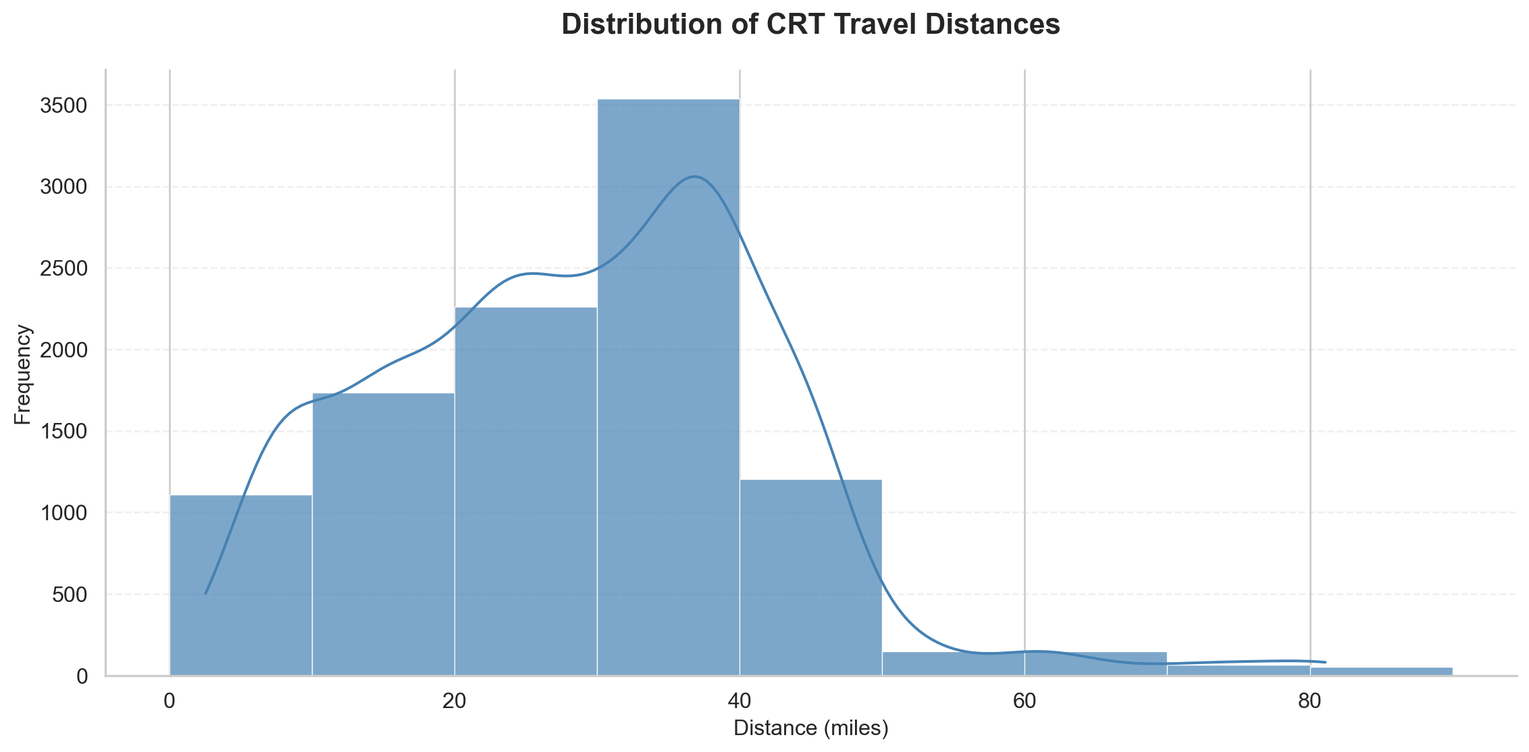
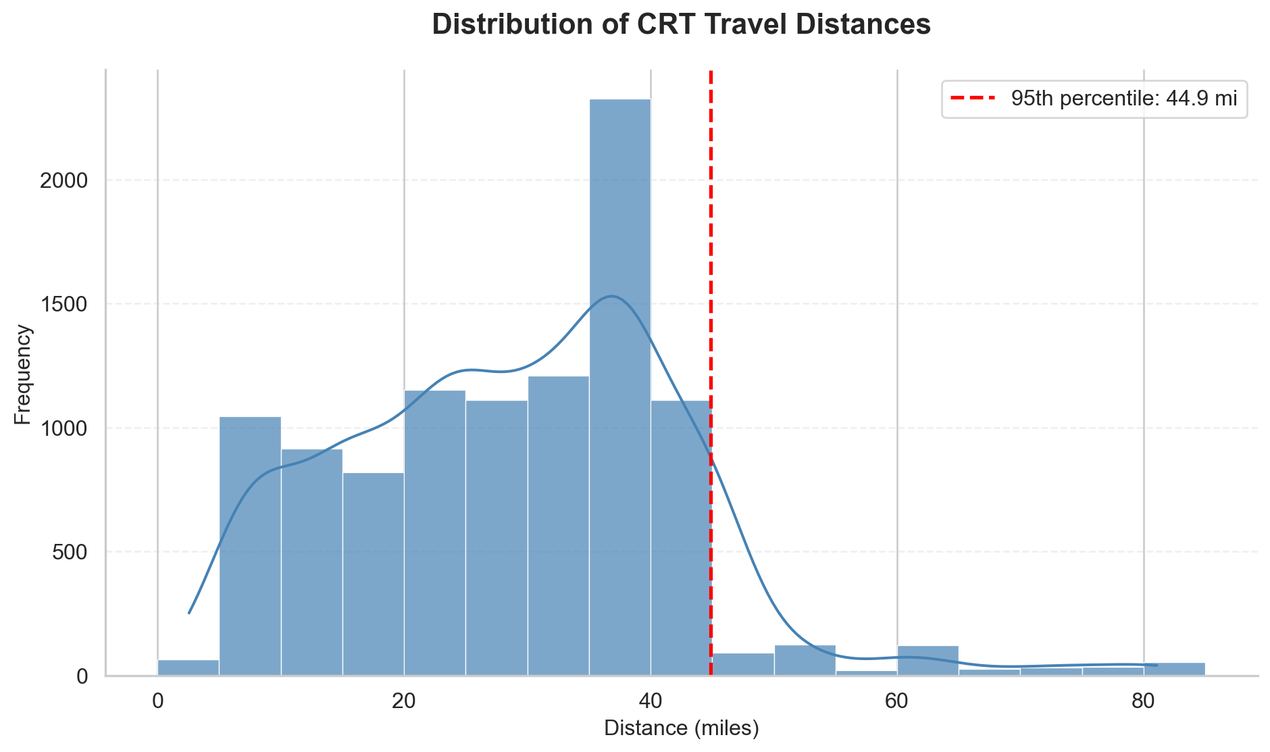
update the trip distance histogram plot

diff --git a/docs/1-crt-trip-distances.html b/docs/1-crt-trip-distances.html
@@ -113,10 +113,7 @@ pre > code.sourceCode > span > a:first-child::before { text-decoration: underlin
 }</script>
 <script src="https://cdn.jsdelivr.net/npm/requirejs@2.3.6/require.min.js" integrity="sha384-c9c+LnTbwQ3aujuU7ULEPVvgLs+Fn6fJUvIGTsuu1ZcCf11fiEubah0ttpca4ntM sha384-6V1/AdqZRWk1KAlWbKBlGhN7VG4iE/yAZcO6NZPMF8od0vukrvr0tg4qY6NSrItx" crossorigin="anonymous"></script>
 
-
-
 <script type="application/javascript">define('jquery', [],function() {return window.jQuery;})</script>
-
 
 
 </head>
@@ -407,7 +404,7 @@ pre > code.sourceCode > span > a:first-child::before { text-decoration: underlin
 </section>
 <section id="import-libraries" class="level2" data-number="1.2">
 <h2 data-number="1.2" class="anchored" data-anchor-id="import-libraries"><span class="header-section-number">1.2</span> Import Libraries</h2>
-<div id="3921f854" class="cell" data-execution_count="1">
+<div id="39dad0d2" class="cell" data-execution_count="1">
 <details class="code-fold">
 <summary>Show the code</summary>
 <div class="code-copy-outer-scaffold"><div class="sourceCode cell-code" id="cb2"><pre class="sourceCode python code-with-copy"><code class="sourceCode python"><span id="cb2-1"><a href="#cb2-1" aria-hidden="true" tabindex="-1"></a><span class="im">import</span> pandas <span class="im">as</span> pd</span>
@@ -431,7 +428,7 @@ pre > code.sourceCode > span > a:first-child::before { text-decoration: underlin
 </section>
 <section id="environment-variables" class="level2" data-number="1.3">
 <h2 data-number="1.3" class="anchored" data-anchor-id="environment-variables"><span class="header-section-number">1.3</span> Environment Variables</h2>
-<div id="d1bdcb39" class="cell" data-execution_count="2">
+<div id="f711789e" class="cell" data-execution_count="2">
 <details class="code-fold">
 <summary>Show the code</summary>
 <div class="code-copy-outer-scaffold"><div class="sourceCode cell-code" id="cb3"><pre class="sourceCode python code-with-copy"><code class="sourceCode python"><span id="cb3-1"><a href="#cb3-1" aria-hidden="true" tabindex="-1"></a>PROJECT_CRS <span class="op">=</span> <span class="st">"EPSG:3566"</span>  <span class="co"># NAD83 / Utah North (ftUS)</span></span></code></pre></div><button title="Copy to Clipboard" class="code-copy-button"><i class="bi"></i></button></div>
@@ -440,7 +437,7 @@ pre > code.sourceCode > span > a:first-child::before { text-decoration: underlin
 </section>
 <section id="helper-functions" class="level2" data-number="1.4">
 <h2 data-number="1.4" class="anchored" data-anchor-id="helper-functions"><span class="header-section-number">1.4</span> Helper Functions</h2>
-<div id="6d5a98b4" class="cell" data-execution_count="3">
+<div id="4aaf6112" class="cell" data-execution_count="3">
 <details class="code-fold">
 <summary>Show the code</summary>
 <div class="code-copy-outer-scaffold"><div class="sourceCode cell-code" id="cb4"><pre class="sourceCode python code-with-copy"><code class="sourceCode python"><span id="cb4-1"><a href="#cb4-1" aria-hidden="true" tabindex="-1"></a><span class="kw">def</span> fetch_github(</span>
@@ -493,8 +490,8 @@ pre > code.sourceCode > span > a:first-child::before { text-decoration: underlin
 <h1 data-number="2"><span class="header-section-number">2</span> Load Data</h1>
 <section id="processed-on-board-survey-data" class="level2" data-number="2.1">
 <h2 data-number="2.1" class="anchored" data-anchor-id="processed-on-board-survey-data"><span class="header-section-number">2.1</span> Processed On-Board Survey Data</h2>
-<p>This dataset is the output from the <a href="2-access-distance-and-time.qmd">“previous step”</a>, which contains all the calculated access and egress distances and times.</p>
-<div id="049a64fb" class="cell" data-execution_count="4">
+<p>This dataset is the output from the <a href="https://github.com/WFRCAnalytics/DATA-OBS-Prep-For-TDM">“previous step”</a>, which contains all the calculated access and egress distances and times.</p>
+<div id="e322201f" class="cell" data-execution_count="4">
 <details class="code-fold">
 <summary>Show the code</summary>
 <div class="code-copy-outer-scaffold"><div class="sourceCode cell-code" id="cb5"><pre class="sourceCode python code-with-copy"><code class="sourceCode python"><span id="cb5-1"><a href="#cb5-1" aria-hidden="true" tabindex="-1"></a><span class="co"># Read Linked UTA On-Board Survey Data directly from GitHub repo</span></span>
@@ -507,12 +504,12 @@ pre > code.sourceCode > span > a:first-child::before { text-decoration: underlin
 <span id="cb5-8"><a href="#cb5-8" aria-hidden="true" tabindex="-1"></a>df_obs_linked</span></code></pre></div><button title="Copy to Clipboard" class="code-copy-button"><i class="bi"></i></button></div>
 </details>
 <div class="cell-output cell-output-stderr">
-<pre><code>C:\Users\Pukar.Bhandari\AppData\Local\Temp\ipykernel_21860\3078765074.py:7: DtypeWarning:
+<pre><code>C:\Users\Pukar.Bhandari\AppData\Local\Temp\ipykernel_15724\3078765074.py:7: DtypeWarning:
 
 Columns (8,24,32,37,54,132,137,174) have mixed types. Specify dtype option on import or set low_memory=False.
 </code></pre>
 </div>
-<div class="cell-output cell-output-display" data-execution_count="10">
+<div class="cell-output cell-output-display" data-execution_count="14">
 <div>
 
 
@@ -834,7 +831,7 @@ Tip
 <p>Skim matrices were copied from <code>\\ModelAce\ModelAce-E\1 - TDM\1 - Official Release (full run)\v9x\v9.1\v9.1.1\WF-TDM-v9.1.1 - revised-se\Scenarios\OY_2023\4_ModeChoice\1a_Skims</code></p>
 </div>
 </div>
-<div id="fbdef5cb" class="cell" data-execution_count="5">
+<div id="766f50cc" class="cell" data-execution_count="5">
 <details class="code-fold">
 <summary>Show the code</summary>
 <div class="code-copy-outer-scaffold"><div class="sourceCode cell-code" id="cb7"><pre class="sourceCode python code-with-copy"><code class="sourceCode python"><span id="cb7-1"><a href="#cb7-1" aria-hidden="true" tabindex="-1"></a><span class="co"># Define output files to check</span></span>
@@ -867,7 +864,7 @@ Tip
 </section>
 <section id="read-matrices" class="level2" data-number="2.3">
 <h2 data-number="2.3" class="anchored" data-anchor-id="read-matrices"><span class="header-section-number">2.3</span> Read Matrices</h2>
-<div id="55b244dc" class="cell" data-execution_count="6">
+<div id="15053c36" class="cell" data-execution_count="6">
 <details class="code-fold">
 <summary>Show the code</summary>
 <div class="code-copy-outer-scaffold"><div class="sourceCode cell-code" id="cb9"><pre class="sourceCode python code-with-copy"><code class="sourceCode python"><span id="cb9-1"><a href="#cb9-1" aria-hidden="true" tabindex="-1"></a><span class="co"># Read Matrices as DataFrames</span></span>
@@ -883,7 +880,7 @@ Tip
 <h1 data-number="3"><span class="header-section-number">3</span> Process Data</h1>
 <section id="assign-which-matrix-to-process-for-each-row" class="level2" data-number="3.1">
 <h2 data-number="3.1" class="anchored" data-anchor-id="assign-which-matrix-to-process-for-each-row"><span class="header-section-number">3.1</span> Assign which matrix to process for each row</h2>
-<div id="dbe2f5dd" class="cell" data-execution_count="7">
+<div id="759f1e40" class="cell" data-execution_count="7">
 <details class="code-fold">
 <summary>Show the code</summary>
 <div class="code-copy-outer-scaffold"><div class="sourceCode cell-code" id="cb10"><pre class="sourceCode python code-with-copy"><code class="sourceCode python"><span id="cb10-1"><a href="#cb10-1" aria-hidden="true" tabindex="-1"></a><span class="co"># Create a new column called "skim_crt" - only assign when CRT is used</span></span>
@@ -912,7 +909,7 @@ Tip
 <span id="cb10-24"><a href="#cb10-24" aria-hidden="true" tabindex="-1"></a></span>
 <span id="cb10-25"><a href="#cb10-25" aria-hidden="true" tabindex="-1"></a>df_obs_linked[<span class="st">'skim_crt'</span>].value_counts().reset_index()</span></code></pre></div><button title="Copy to Clipboard" class="code-copy-button"><i class="bi"></i></button></div>
 </details>
-<div class="cell-output cell-output-display" data-execution_count="13">
+<div class="cell-output cell-output-display" data-execution_count="17">
 <div>
 
 
@@ -954,7 +951,7 @@ Tip
 </section>
 <section id="calculate-crt-distances" class="level2" data-number="3.2">
 <h2 data-number="3.2" class="anchored" data-anchor-id="calculate-crt-distances"><span class="header-section-number">3.2</span> Calculate CRT Distances</h2>
-<div id="a06ad628" class="cell" data-execution_count="8">
+<div id="c03c9ddf" class="cell" data-execution_count="8">
 <details class="code-fold">
 <summary>Show the code</summary>
 <div class="code-copy-outer-scaffold"><div class="sourceCode cell-code" id="cb11"><pre class="sourceCode python code-with-copy"><code class="sourceCode python"><span id="cb11-1"><a href="#cb11-1" aria-hidden="true" tabindex="-1"></a><span class="co"># Calculate CRT Distances - vectorized approach</span></span>
@@ -986,7 +983,7 @@ Tip
 <span id="cb11-27"><a href="#cb11-27" aria-hidden="true" tabindex="-1"></a></span>
 <span id="cb11-28"><a href="#cb11-28" aria-hidden="true" tabindex="-1"></a>df_obs_linked[[<span class="st">'dist_CRT'</span>]]</span></code></pre></div><button title="Copy to Clipboard" class="code-copy-button"><i class="bi"></i></button></div>
 </details>
-<div class="cell-output cell-output-display" data-execution_count="14">
+<div class="cell-output cell-output-display" data-execution_count="18">
 <div>
 
 
@@ -1049,12 +1046,12 @@ Tip
 </div>
 </div>
 </div>
-<div id="b51bfbeb" class="cell" data-execution_count="9">
+<div id="4b68cc2b" class="cell" data-execution_count="9">
 <details class="code-fold">
 <summary>Show the code</summary>
 <div class="code-copy-outer-scaffold"><div class="sourceCode cell-code" id="cb12"><pre class="sourceCode python code-with-copy"><code class="sourceCode python"><span id="cb12-1"><a href="#cb12-1" aria-hidden="true" tabindex="-1"></a>df_obs_linked[<span class="st">'dist_CRT'</span>].replace(<span class="dv">0</span>, np.nan).dropna().sort_values()</span></code></pre></div><button title="Copy to Clipboard" class="code-copy-button"><i class="bi"></i></button></div>
 </details>
-<div class="cell-output cell-output-display" data-execution_count="15">
+<div class="cell-output cell-output-display" data-execution_count="19">
 <pre><code>11934     2.55
 7651      4.32
 2326      4.32
@@ -1069,47 +1066,58 @@ Tip
 Name: dist_CRT, Length: 1911, dtype: float64</code></pre>
 </div>
 </div>
-<div id="5b7a8688" class="cell" data-execution_count="10">
+<div id="c23d2d4c" class="cell" data-execution_count="10">
 <details class="code-fold">
 <summary>Show the code</summary>
 <div class="code-copy-outer-scaffold"><div class="sourceCode cell-code" id="cb14"><pre class="sourceCode python code-with-copy"><code class="sourceCode python"><span id="cb14-1"><a href="#cb14-1" aria-hidden="true" tabindex="-1"></a><span class="co"># Set seaborn style</span></span>
 <span id="cb14-2"><a href="#cb14-2" aria-hidden="true" tabindex="-1"></a>sns.set_style(<span class="st">"whitegrid"</span>)</span>
 <span id="cb14-3"><a href="#cb14-3" aria-hidden="true" tabindex="-1"></a>sns.set_context(<span class="st">"notebook"</span>, font_scale<span class="op">=</span><span class="fl">1.1</span>)</span>
 <span id="cb14-4"><a href="#cb14-4" aria-hidden="true" tabindex="-1"></a></span>
-<span id="cb14-5"><a href="#cb14-5" aria-hidden="true" tabindex="-1"></a>plt.figure(figsize<span class="op">=</span>(<span class="dv">12</span>, <span class="dv">6</span>))</span>
+<span id="cb14-5"><a href="#cb14-5" aria-hidden="true" tabindex="-1"></a>plt.figure(figsize<span class="op">=</span>(<span class="dv">10</span>, <span class="dv">6</span>))</span>
 <span id="cb14-6"><a href="#cb14-6" aria-hidden="true" tabindex="-1"></a></span>
-<span id="cb14-7"><a href="#cb14-7" aria-hidden="true" tabindex="-1"></a><span class="co"># Create histogram with KDE</span></span>
-<span id="cb14-8"><a href="#cb14-8" aria-hidden="true" tabindex="-1"></a>ax <span class="op">=</span> sns.histplot(</span>
-<span id="cb14-9"><a href="#cb14-9" aria-hidden="true" tabindex="-1"></a>    data<span class="op">=</span>df_obs_linked[</span>
-<span id="cb14-10"><a href="#cb14-10" aria-hidden="true" tabindex="-1"></a>        (df_obs_linked[<span class="st">'dist_CRT'</span>].notna()) <span class="op">&amp;</span> <span class="co"># filter out NaNs and</span></span>
-<span id="cb14-11"><a href="#cb14-11" aria-hidden="true" tabindex="-1"></a>        (df_obs_linked[<span class="st">'dist_CRT'</span>] <span class="op">&gt;</span> <span class="dv">0</span>) <span class="co"># only valid distances</span></span>
-<span id="cb14-12"><a href="#cb14-12" aria-hidden="true" tabindex="-1"></a>    ],</span>
-<span id="cb14-13"><a href="#cb14-13" aria-hidden="true" tabindex="-1"></a>    x<span class="op">=</span><span class="st">'dist_CRT'</span>,</span>
-<span id="cb14-14"><a href="#cb14-14" aria-hidden="true" tabindex="-1"></a>    weights<span class="op">=</span><span class="st">"trip_weight"</span>,</span>
-<span id="cb14-15"><a href="#cb14-15" aria-hidden="true" tabindex="-1"></a>    bins<span class="op">=</span><span class="bu">range</span>(<span class="dv">0</span>, <span class="bu">int</span>(df_obs_linked[<span class="st">'dist_CRT'</span>].<span class="bu">max</span>()) <span class="op">+</span> <span class="dv">10</span>, <span class="dv">10</span>),</span>
-<span id="cb14-16"><a href="#cb14-16" aria-hidden="true" tabindex="-1"></a>    kde<span class="op">=</span><span class="va">True</span>,</span>
-<span id="cb14-17"><a href="#cb14-17" aria-hidden="true" tabindex="-1"></a>    color<span class="op">=</span><span class="st">'steelblue'</span>,</span>
-<span id="cb14-18"><a href="#cb14-18" aria-hidden="true" tabindex="-1"></a>    edgecolor<span class="op">=</span><span class="st">'white'</span>,</span>
-<span id="cb14-19"><a href="#cb14-19" aria-hidden="true" tabindex="-1"></a>    linewidth<span class="op">=</span><span class="fl">0.5</span>,</span>
-<span id="cb14-20"><a href="#cb14-20" aria-hidden="true" tabindex="-1"></a>    alpha<span class="op">=</span><span class="fl">0.7</span></span>
-<span id="cb14-21"><a href="#cb14-21" aria-hidden="true" tabindex="-1"></a>)</span>
-<span id="cb14-22"><a href="#cb14-22" aria-hidden="true" tabindex="-1"></a></span>
-<span id="cb14-23"><a href="#cb14-23" aria-hidden="true" tabindex="-1"></a><span class="co"># Add grid for better readability</span></span>
-<span id="cb14-24"><a href="#cb14-24" aria-hidden="true" tabindex="-1"></a>plt.grid(axis<span class="op">=</span><span class="st">'y'</span>, alpha<span class="op">=</span><span class="fl">0.3</span>, linestyle<span class="op">=</span><span class="st">'--'</span>)</span>
+<span id="cb14-7"><a href="#cb14-7" aria-hidden="true" tabindex="-1"></a><span class="co"># Filter relevant data</span></span>
+<span id="cb14-8"><a href="#cb14-8" aria-hidden="true" tabindex="-1"></a>df_valid <span class="op">=</span> df_obs_linked[</span>
+<span id="cb14-9"><a href="#cb14-9" aria-hidden="true" tabindex="-1"></a>    (df_obs_linked[<span class="st">'dist_CRT'</span>].notna()) <span class="op">&amp;</span> <span class="co"># filter out NaNs and</span></span>
+<span id="cb14-10"><a href="#cb14-10" aria-hidden="true" tabindex="-1"></a>    (df_obs_linked[<span class="st">'dist_CRT'</span>] <span class="op">&gt;</span> <span class="dv">0</span>) <span class="co"># only non-zero distances</span></span>
+<span id="cb14-11"><a href="#cb14-11" aria-hidden="true" tabindex="-1"></a>]</span>
+<span id="cb14-12"><a href="#cb14-12" aria-hidden="true" tabindex="-1"></a></span>
+<span id="cb14-13"><a href="#cb14-13" aria-hidden="true" tabindex="-1"></a><span class="co"># Create histogram with KDE</span></span>
+<span id="cb14-14"><a href="#cb14-14" aria-hidden="true" tabindex="-1"></a>ax <span class="op">=</span> sns.histplot(</span>
+<span id="cb14-15"><a href="#cb14-15" aria-hidden="true" tabindex="-1"></a>    data<span class="op">=</span>df_valid,</span>
+<span id="cb14-16"><a href="#cb14-16" aria-hidden="true" tabindex="-1"></a>    x<span class="op">=</span><span class="st">'dist_CRT'</span>,</span>
+<span id="cb14-17"><a href="#cb14-17" aria-hidden="true" tabindex="-1"></a>    weights<span class="op">=</span><span class="st">"trip_weight"</span>,</span>
+<span id="cb14-18"><a href="#cb14-18" aria-hidden="true" tabindex="-1"></a>    bins<span class="op">=</span>(<span class="kw">lambda</span> x: <span class="bu">range</span>(<span class="dv">0</span>, <span class="bu">int</span>(df_valid[<span class="st">'dist_CRT'</span>].<span class="bu">max</span>()) <span class="op">+</span> x, x))(<span class="dv">5</span>),</span>
+<span id="cb14-19"><a href="#cb14-19" aria-hidden="true" tabindex="-1"></a>    kde<span class="op">=</span><span class="va">True</span>,</span>
+<span id="cb14-20"><a href="#cb14-20" aria-hidden="true" tabindex="-1"></a>    color<span class="op">=</span><span class="st">'steelblue'</span>,</span>
+<span id="cb14-21"><a href="#cb14-21" aria-hidden="true" tabindex="-1"></a>    edgecolor<span class="op">=</span><span class="st">'white'</span>,</span>
+<span id="cb14-22"><a href="#cb14-22" aria-hidden="true" tabindex="-1"></a>    linewidth<span class="op">=</span><span class="fl">0.5</span>,</span>
+<span id="cb14-23"><a href="#cb14-23" aria-hidden="true" tabindex="-1"></a>    alpha<span class="op">=</span><span class="fl">0.7</span></span>
+<span id="cb14-24"><a href="#cb14-24" aria-hidden="true" tabindex="-1"></a>)</span>
 <span id="cb14-25"><a href="#cb14-25" aria-hidden="true" tabindex="-1"></a></span>
-<span id="cb14-26"><a href="#cb14-26" aria-hidden="true" tabindex="-1"></a><span class="co"># Customize</span></span>
-<span id="cb14-27"><a href="#cb14-27" aria-hidden="true" tabindex="-1"></a>plt.title(<span class="st">'Distribution of CRT Travel Distances'</span>, fontsize<span class="op">=</span><span class="dv">16</span>, fontweight<span class="op">=</span><span class="st">'bold'</span>, pad<span class="op">=</span><span class="dv">20</span>)</span>
-<span id="cb14-28"><a href="#cb14-28" aria-hidden="true" tabindex="-1"></a>plt.xlabel(<span class="st">'Distance (miles)'</span>, fontsize<span class="op">=</span><span class="dv">12</span>)</span>
-<span id="cb14-29"><a href="#cb14-29" aria-hidden="true" tabindex="-1"></a>plt.ylabel(<span class="st">'Frequency'</span>, fontsize<span class="op">=</span><span class="dv">12</span>)</span>
+<span id="cb14-26"><a href="#cb14-26" aria-hidden="true" tabindex="-1"></a><span class="co"># Add 95th percentile line using sorted cumulative weights</span></span>
+<span id="cb14-27"><a href="#cb14-27" aria-hidden="true" tabindex="-1"></a>df_sorted <span class="op">=</span> df_valid.sort_values(<span class="st">'dist_CRT'</span>)</span>
+<span id="cb14-28"><a href="#cb14-28" aria-hidden="true" tabindex="-1"></a>cumsum <span class="op">=</span> df_sorted[<span class="st">'trip_weight'</span>].cumsum()</span>
+<span id="cb14-29"><a href="#cb14-29" aria-hidden="true" tabindex="-1"></a>pct95 <span class="op">=</span> df_sorted.loc[cumsum <span class="op">&gt;=</span> cumsum.iloc[<span class="op">-</span><span class="dv">1</span>] <span class="op">*</span> <span class="fl">0.95</span>, <span class="st">'dist_CRT'</span>].iloc[<span class="dv">0</span>]</span>
 <span id="cb14-30"><a href="#cb14-30" aria-hidden="true" tabindex="-1"></a></span>
-<span id="cb14-31"><a href="#cb14-31" aria-hidden="true" tabindex="-1"></a>sns.despine()</span>
-<span id="cb14-32"><a href="#cb14-32" aria-hidden="true" tabindex="-1"></a>plt.tight_layout()</span>
-<span id="cb14-33"><a href="#cb14-33" aria-hidden="true" tabindex="-1"></a>plt.show()</span></code></pre></div><button title="Copy to Clipboard" class="code-copy-button"><i class="bi"></i></button></div>
+<span id="cb14-31"><a href="#cb14-31" aria-hidden="true" tabindex="-1"></a>plt.axvline(pct95, color<span class="op">=</span><span class="st">'red'</span>, linestyle<span class="op">=</span><span class="st">'--'</span>, linewidth<span class="op">=</span><span class="dv">2</span>, label<span class="op">=</span><span class="ss">f'95th percentile: </span><span class="sc">{</span>pct95<span class="sc">:.1f}</span><span class="ss"> mi'</span>)</span>
+<span id="cb14-32"><a href="#cb14-32" aria-hidden="true" tabindex="-1"></a>plt.legend()</span>
+<span id="cb14-33"><a href="#cb14-33" aria-hidden="true" tabindex="-1"></a></span>
+<span id="cb14-34"><a href="#cb14-34" aria-hidden="true" tabindex="-1"></a><span class="co"># Add grid for better readability</span></span>
+<span id="cb14-35"><a href="#cb14-35" aria-hidden="true" tabindex="-1"></a>plt.grid(axis<span class="op">=</span><span class="st">'y'</span>, alpha<span class="op">=</span><span class="fl">0.3</span>, linestyle<span class="op">=</span><span class="st">'--'</span>)</span>
+<span id="cb14-36"><a href="#cb14-36" aria-hidden="true" tabindex="-1"></a></span>
+<span id="cb14-37"><a href="#cb14-37" aria-hidden="true" tabindex="-1"></a><span class="co"># Customize</span></span>
+<span id="cb14-38"><a href="#cb14-38" aria-hidden="true" tabindex="-1"></a>plt.title(<span class="st">'Distribution of CRT Travel Distances'</span>, fontsize<span class="op">=</span><span class="dv">16</span>, fontweight<span class="op">=</span><span class="st">'bold'</span>, pad<span class="op">=</span><span class="dv">20</span>)</span>
+<span id="cb14-39"><a href="#cb14-39" aria-hidden="true" tabindex="-1"></a>plt.xlabel(<span class="st">'Distance (miles)'</span>, fontsize<span class="op">=</span><span class="dv">12</span>)</span>
+<span id="cb14-40"><a href="#cb14-40" aria-hidden="true" tabindex="-1"></a>plt.ylabel(<span class="st">'Frequency'</span>, fontsize<span class="op">=</span><span class="dv">12</span>)</span>
+<span id="cb14-41"><a href="#cb14-41" aria-hidden="true" tabindex="-1"></a></span>
+<span id="cb14-42"><a href="#cb14-42" aria-hidden="true" tabindex="-1"></a>sns.despine()</span>
+<span id="cb14-43"><a href="#cb14-43" aria-hidden="true" tabindex="-1"></a>plt.tight_layout()</span>
+<span id="cb14-44"><a href="#cb14-44" aria-hidden="true" tabindex="-1"></a>plt.show()</span></code></pre></div><button title="Copy to Clipboard" class="code-copy-button"><i class="bi"></i></button></div>
 </details>
 <div class="cell-output cell-output-display">
 <div>
 <figure class="figure">
-<p><img src="1-crt-trip-distances_files/figure-html/cell-11-output-1.png" width="1132" height="557" class="figure-img"></p>
+<p><img src="1-crt-trip-distances_files/figure-html/cell-11-output-1.png" width="940" height="557" class="figure-img"></p>
 </figure>
 </div>
 </div>
@@ -1687,7 +1695,7 @@ Name: dist_CRT, Length: 1911, dtype: float64</code></pre>
 <span id="cb15-105"><a href="#cb15-105" aria-hidden="true" tabindex="-1"></a></span>
 <span id="cb15-106"><a href="#cb15-106" aria-hidden="true" tabindex="-1"></a><span class="fu">## Processed On-Board Survey Data</span></span>
 <span id="cb15-107"><a href="#cb15-107" aria-hidden="true" tabindex="-1"></a></span>
-<span id="cb15-108"><a href="#cb15-108" aria-hidden="true" tabindex="-1"></a>This dataset is the output from the <span class="co">[</span><span class="ot">"previous step"</span><span class="co">](2-access-distance-and-time.qmd)</span>, which contains all the calculated access and egress distances and times.</span>
+<span id="cb15-108"><a href="#cb15-108" aria-hidden="true" tabindex="-1"></a>This dataset is the output from the <span class="co">[</span><span class="ot">"previous step"</span><span class="co">](https://github.com/WFRCAnalytics/DATA-OBS-Prep-For-TDM)</span>, which contains all the calculated access and egress distances and times.</span>
 <span id="cb15-109"><a href="#cb15-109" aria-hidden="true" tabindex="-1"></a></span>
 <span id="cb15-112"><a href="#cb15-112" aria-hidden="true" tabindex="-1"></a><span class="in">```{python}</span></span>
 <span id="cb15-113"><a href="#cb15-113" aria-hidden="true" tabindex="-1"></a><span class="co"># Read Linked UTA On-Board Survey Data directly from GitHub repo</span></span>
@@ -1818,36 +1826,47 @@ Name: dist_CRT, Length: 1911, dtype: float64</code></pre>
 <span id="cb15-250"><a href="#cb15-250" aria-hidden="true" tabindex="-1"></a>sns.set_style(<span class="st">"whitegrid"</span>)</span>
 <span id="cb15-251"><a href="#cb15-251" aria-hidden="true" tabindex="-1"></a>sns.set_context(<span class="st">"notebook"</span>, font_scale<span class="op">=</span><span class="fl">1.1</span>)</span>
 <span id="cb15-252"><a href="#cb15-252" aria-hidden="true" tabindex="-1"></a></span>
-<span id="cb15-253"><a href="#cb15-253" aria-hidden="true" tabindex="-1"></a>plt.figure(figsize<span class="op">=</span>(<span class="dv">12</span>, <span class="dv">6</span>))</span>
+<span id="cb15-253"><a href="#cb15-253" aria-hidden="true" tabindex="-1"></a>plt.figure(figsize<span class="op">=</span>(<span class="dv">10</span>, <span class="dv">6</span>))</span>
 <span id="cb15-254"><a href="#cb15-254" aria-hidden="true" tabindex="-1"></a></span>
-<span id="cb15-255"><a href="#cb15-255" aria-hidden="true" tabindex="-1"></a><span class="co"># Create histogram with KDE</span></span>
-<span id="cb15-256"><a href="#cb15-256" aria-hidden="true" tabindex="-1"></a>ax <span class="op">=</span> sns.histplot(</span>
-<span id="cb15-257"><a href="#cb15-257" aria-hidden="true" tabindex="-1"></a>    data<span class="op">=</span>df_obs_linked[</span>
-<span id="cb15-258"><a href="#cb15-258" aria-hidden="true" tabindex="-1"></a>        (df_obs_linked[<span class="st">'dist_CRT'</span>].notna()) <span class="op">&amp;</span> <span class="co"># filter out NaNs and</span></span>
-<span id="cb15-259"><a href="#cb15-259" aria-hidden="true" tabindex="-1"></a>        (df_obs_linked[<span class="st">'dist_CRT'</span>] <span class="op">&gt;</span> <span class="dv">0</span>) <span class="co"># only valid distances</span></span>
-<span id="cb15-260"><a href="#cb15-260" aria-hidden="true" tabindex="-1"></a>    ],</span>
-<span id="cb15-261"><a href="#cb15-261" aria-hidden="true" tabindex="-1"></a>    x<span class="op">=</span><span class="st">'dist_CRT'</span>,</span>
-<span id="cb15-262"><a href="#cb15-262" aria-hidden="true" tabindex="-1"></a>    weights<span class="op">=</span><span class="st">"trip_weight"</span>,</span>
-<span id="cb15-263"><a href="#cb15-263" aria-hidden="true" tabindex="-1"></a>    bins<span class="op">=</span><span class="bu">range</span>(<span class="dv">0</span>, <span class="bu">int</span>(df_obs_linked[<span class="st">'dist_CRT'</span>].<span class="bu">max</span>()) <span class="op">+</span> <span class="dv">10</span>, <span class="dv">10</span>),</span>
-<span id="cb15-264"><a href="#cb15-264" aria-hidden="true" tabindex="-1"></a>    kde<span class="op">=</span><span class="va">True</span>,</span>
-<span id="cb15-265"><a href="#cb15-265" aria-hidden="true" tabindex="-1"></a>    color<span class="op">=</span><span class="st">'steelblue'</span>,</span>
-<span id="cb15-266"><a href="#cb15-266" aria-hidden="true" tabindex="-1"></a>    edgecolor<span class="op">=</span><span class="st">'white'</span>,</span>
-<span id="cb15-267"><a href="#cb15-267" aria-hidden="true" tabindex="-1"></a>    linewidth<span class="op">=</span><span class="fl">0.5</span>,</span>
-<span id="cb15-268"><a href="#cb15-268" aria-hidden="true" tabindex="-1"></a>    alpha<span class="op">=</span><span class="fl">0.7</span></span>
-<span id="cb15-269"><a href="#cb15-269" aria-hidden="true" tabindex="-1"></a>)</span>
-<span id="cb15-270"><a href="#cb15-270" aria-hidden="true" tabindex="-1"></a></span>
-<span id="cb15-271"><a href="#cb15-271" aria-hidden="true" tabindex="-1"></a><span class="co"># Add grid for better readability</span></span>
-<span id="cb15-272"><a href="#cb15-272" aria-hidden="true" tabindex="-1"></a>plt.grid(axis<span class="op">=</span><span class="st">'y'</span>, alpha<span class="op">=</span><span class="fl">0.3</span>, linestyle<span class="op">=</span><span class="st">'--'</span>)</span>
+<span id="cb15-255"><a href="#cb15-255" aria-hidden="true" tabindex="-1"></a><span class="co"># Filter relevant data</span></span>
+<span id="cb15-256"><a href="#cb15-256" aria-hidden="true" tabindex="-1"></a>df_valid <span class="op">=</span> df_obs_linked[</span>
+<span id="cb15-257"><a href="#cb15-257" aria-hidden="true" tabindex="-1"></a>    (df_obs_linked[<span class="st">'dist_CRT'</span>].notna()) <span class="op">&amp;</span> <span class="co"># filter out NaNs and</span></span>
+<span id="cb15-258"><a href="#cb15-258" aria-hidden="true" tabindex="-1"></a>    (df_obs_linked[<span class="st">'dist_CRT'</span>] <span class="op">&gt;</span> <span class="dv">0</span>) <span class="co"># only non-zero distances</span></span>
+<span id="cb15-259"><a href="#cb15-259" aria-hidden="true" tabindex="-1"></a>]</span>
+<span id="cb15-260"><a href="#cb15-260" aria-hidden="true" tabindex="-1"></a></span>
+<span id="cb15-261"><a href="#cb15-261" aria-hidden="true" tabindex="-1"></a><span class="co"># Create histogram with KDE</span></span>
+<span id="cb15-262"><a href="#cb15-262" aria-hidden="true" tabindex="-1"></a>ax <span class="op">=</span> sns.histplot(</span>
+<span id="cb15-263"><a href="#cb15-263" aria-hidden="true" tabindex="-1"></a>    data<span class="op">=</span>df_valid,</span>
+<span id="cb15-264"><a href="#cb15-264" aria-hidden="true" tabindex="-1"></a>    x<span class="op">=</span><span class="st">'dist_CRT'</span>,</span>
+<span id="cb15-265"><a href="#cb15-265" aria-hidden="true" tabindex="-1"></a>    weights<span class="op">=</span><span class="st">"trip_weight"</span>,</span>
+<span id="cb15-266"><a href="#cb15-266" aria-hidden="true" tabindex="-1"></a>    bins<span class="op">=</span>(<span class="kw">lambda</span> x: <span class="bu">range</span>(<span class="dv">0</span>, <span class="bu">int</span>(df_valid[<span class="st">'dist_CRT'</span>].<span class="bu">max</span>()) <span class="op">+</span> x, x))(<span class="dv">5</span>),</span>
+<span id="cb15-267"><a href="#cb15-267" aria-hidden="true" tabindex="-1"></a>    kde<span class="op">=</span><span class="va">True</span>,</span>
+<span id="cb15-268"><a href="#cb15-268" aria-hidden="true" tabindex="-1"></a>    color<span class="op">=</span><span class="st">'steelblue'</span>,</span>
+<span id="cb15-269"><a href="#cb15-269" aria-hidden="true" tabindex="-1"></a>    edgecolor<span class="op">=</span><span class="st">'white'</span>,</span>
+<span id="cb15-270"><a href="#cb15-270" aria-hidden="true" tabindex="-1"></a>    linewidth<span class="op">=</span><span class="fl">0.5</span>,</span>
+<span id="cb15-271"><a href="#cb15-271" aria-hidden="true" tabindex="-1"></a>    alpha<span class="op">=</span><span class="fl">0.7</span></span>
+<span id="cb15-272"><a href="#cb15-272" aria-hidden="true" tabindex="-1"></a>)</span>
 <span id="cb15-273"><a href="#cb15-273" aria-hidden="true" tabindex="-1"></a></span>
-<span id="cb15-274"><a href="#cb15-274" aria-hidden="true" tabindex="-1"></a><span class="co"># Customize</span></span>
-<span id="cb15-275"><a href="#cb15-275" aria-hidden="true" tabindex="-1"></a>plt.title(<span class="st">'Distribution of CRT Travel Distances'</span>, fontsize<span class="op">=</span><span class="dv">16</span>, fontweight<span class="op">=</span><span class="st">'bold'</span>, pad<span class="op">=</span><span class="dv">20</span>)</span>
-<span id="cb15-276"><a href="#cb15-276" aria-hidden="true" tabindex="-1"></a>plt.xlabel(<span class="st">'Distance (miles)'</span>, fontsize<span class="op">=</span><span class="dv">12</span>)</span>
-<span id="cb15-277"><a href="#cb15-277" aria-hidden="true" tabindex="-1"></a>plt.ylabel(<span class="st">'Frequency'</span>, fontsize<span class="op">=</span><span class="dv">12</span>)</span>
+<span id="cb15-274"><a href="#cb15-274" aria-hidden="true" tabindex="-1"></a><span class="co"># Add 95th percentile line using sorted cumulative weights</span></span>
+<span id="cb15-275"><a href="#cb15-275" aria-hidden="true" tabindex="-1"></a>df_sorted <span class="op">=</span> df_valid.sort_values(<span class="st">'dist_CRT'</span>)</span>
+<span id="cb15-276"><a href="#cb15-276" aria-hidden="true" tabindex="-1"></a>cumsum <span class="op">=</span> df_sorted[<span class="st">'trip_weight'</span>].cumsum()</span>
+<span id="cb15-277"><a href="#cb15-277" aria-hidden="true" tabindex="-1"></a>pct95 <span class="op">=</span> df_sorted.loc[cumsum <span class="op">&gt;=</span> cumsum.iloc[<span class="op">-</span><span class="dv">1</span>] <span class="op">*</span> <span class="fl">0.95</span>, <span class="st">'dist_CRT'</span>].iloc[<span class="dv">0</span>]</span>
 <span id="cb15-278"><a href="#cb15-278" aria-hidden="true" tabindex="-1"></a></span>
-<span id="cb15-279"><a href="#cb15-279" aria-hidden="true" tabindex="-1"></a>sns.despine()</span>
-<span id="cb15-280"><a href="#cb15-280" aria-hidden="true" tabindex="-1"></a>plt.tight_layout()</span>
-<span id="cb15-281"><a href="#cb15-281" aria-hidden="true" tabindex="-1"></a>plt.show()</span>
-<span id="cb15-282"><a href="#cb15-282" aria-hidden="true" tabindex="-1"></a><span class="in">```</span></span>
+<span id="cb15-279"><a href="#cb15-279" aria-hidden="true" tabindex="-1"></a>plt.axvline(pct95, color<span class="op">=</span><span class="st">'red'</span>, linestyle<span class="op">=</span><span class="st">'--'</span>, linewidth<span class="op">=</span><span class="dv">2</span>, label<span class="op">=</span><span class="ss">f'95th percentile: </span><span class="sc">{</span>pct95<span class="sc">:.1f}</span><span class="ss"> mi'</span>)</span>
+<span id="cb15-280"><a href="#cb15-280" aria-hidden="true" tabindex="-1"></a>plt.legend()</span>
+<span id="cb15-281"><a href="#cb15-281" aria-hidden="true" tabindex="-1"></a></span>
+<span id="cb15-282"><a href="#cb15-282" aria-hidden="true" tabindex="-1"></a><span class="co"># Add grid for better readability</span></span>
+<span id="cb15-283"><a href="#cb15-283" aria-hidden="true" tabindex="-1"></a>plt.grid(axis<span class="op">=</span><span class="st">'y'</span>, alpha<span class="op">=</span><span class="fl">0.3</span>, linestyle<span class="op">=</span><span class="st">'--'</span>)</span>
+<span id="cb15-284"><a href="#cb15-284" aria-hidden="true" tabindex="-1"></a></span>
+<span id="cb15-285"><a href="#cb15-285" aria-hidden="true" tabindex="-1"></a><span class="co"># Customize</span></span>
+<span id="cb15-286"><a href="#cb15-286" aria-hidden="true" tabindex="-1"></a>plt.title(<span class="st">'Distribution of CRT Travel Distances'</span>, fontsize<span class="op">=</span><span class="dv">16</span>, fontweight<span class="op">=</span><span class="st">'bold'</span>, pad<span class="op">=</span><span class="dv">20</span>)</span>
+<span id="cb15-287"><a href="#cb15-287" aria-hidden="true" tabindex="-1"></a>plt.xlabel(<span class="st">'Distance (miles)'</span>, fontsize<span class="op">=</span><span class="dv">12</span>)</span>
+<span id="cb15-288"><a href="#cb15-288" aria-hidden="true" tabindex="-1"></a>plt.ylabel(<span class="st">'Frequency'</span>, fontsize<span class="op">=</span><span class="dv">12</span>)</span>
+<span id="cb15-289"><a href="#cb15-289" aria-hidden="true" tabindex="-1"></a></span>
+<span id="cb15-290"><a href="#cb15-290" aria-hidden="true" tabindex="-1"></a>sns.despine()</span>
+<span id="cb15-291"><a href="#cb15-291" aria-hidden="true" tabindex="-1"></a>plt.tight_layout()</span>
+<span id="cb15-292"><a href="#cb15-292" aria-hidden="true" tabindex="-1"></a>plt.show()</span>
+<span id="cb15-293"><a href="#cb15-293" aria-hidden="true" tabindex="-1"></a><span class="in">```</span></span>
 </code></pre></div><button title="Copy to Clipboard" class="code-copy-button" data-in-quarto-modal=""><i class="bi"></i></button></div>
 </div></div></div></div></div>
 </div> <!-- /content -->

diff --git a/docs/2-mode-choice-targets.html b/docs/2-mode-choice-targets.html
@@ -116,12 +116,21 @@ pre > code.sourceCode > span > a:first-child::before { text-decoration: underlin
 <link href="site_libs/quarto-diagram/mermaid.css" rel="stylesheet">
 <script src="https://cdn.jsdelivr.net/npm/requirejs@2.3.6/require.min.js" integrity="sha384-c9c+LnTbwQ3aujuU7ULEPVvgLs+Fn6fJUvIGTsuu1ZcCf11fiEubah0ttpca4ntM sha384-6V1/AdqZRWk1KAlWbKBlGhN7VG4iE/yAZcO6NZPMF8od0vukrvr0tg4qY6NSrItx" crossorigin="anonymous"></script>
 
+
+
 <script type="application/javascript">define('jquery', [],function() {return window.jQuery;})</script>
+
 <script type="text/javascript">
+
 window.PlotlyConfig = {MathJaxConfig: 'local'};
+
 if (window.MathJax && window.MathJax.Hub && window.MathJax.Hub.Config) {window.MathJax.Hub.Config({SVG: {font: "STIX-Web"}});}
+
 </script>
+
 <script type="module">import "https://cdn.plot.ly/plotly-3.2.0.min"</script>
+
+
 
 
 
